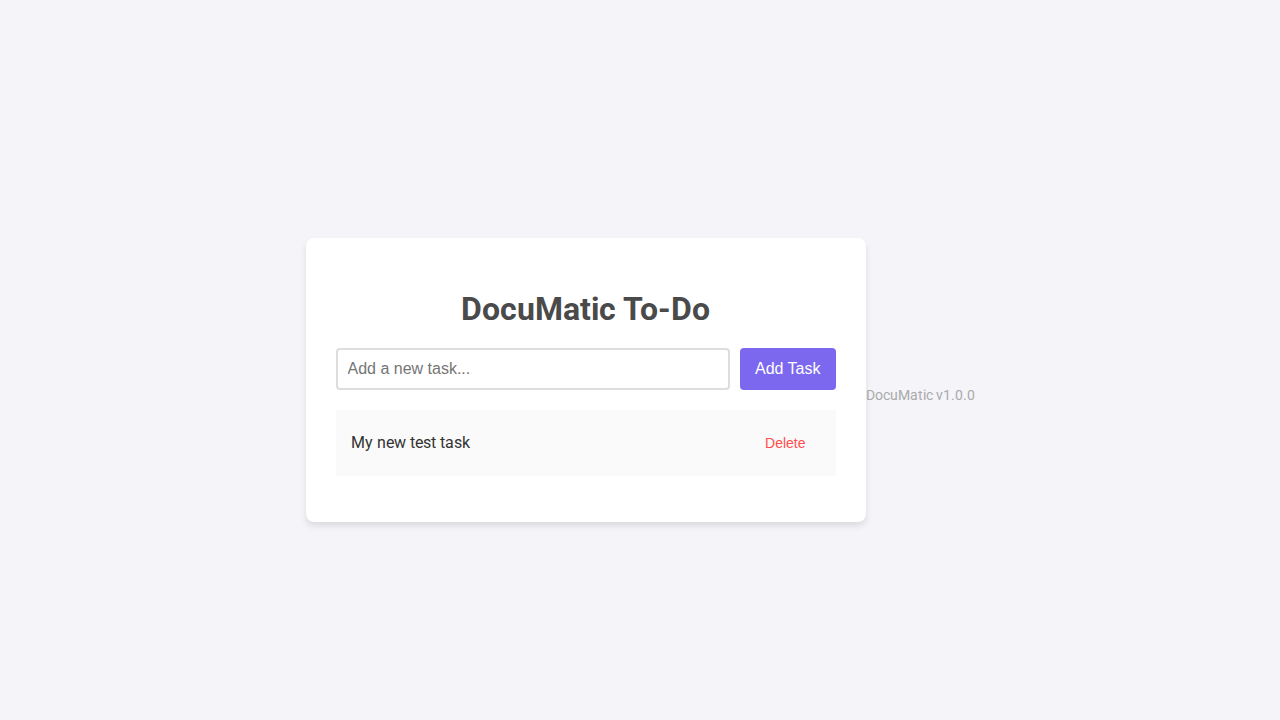
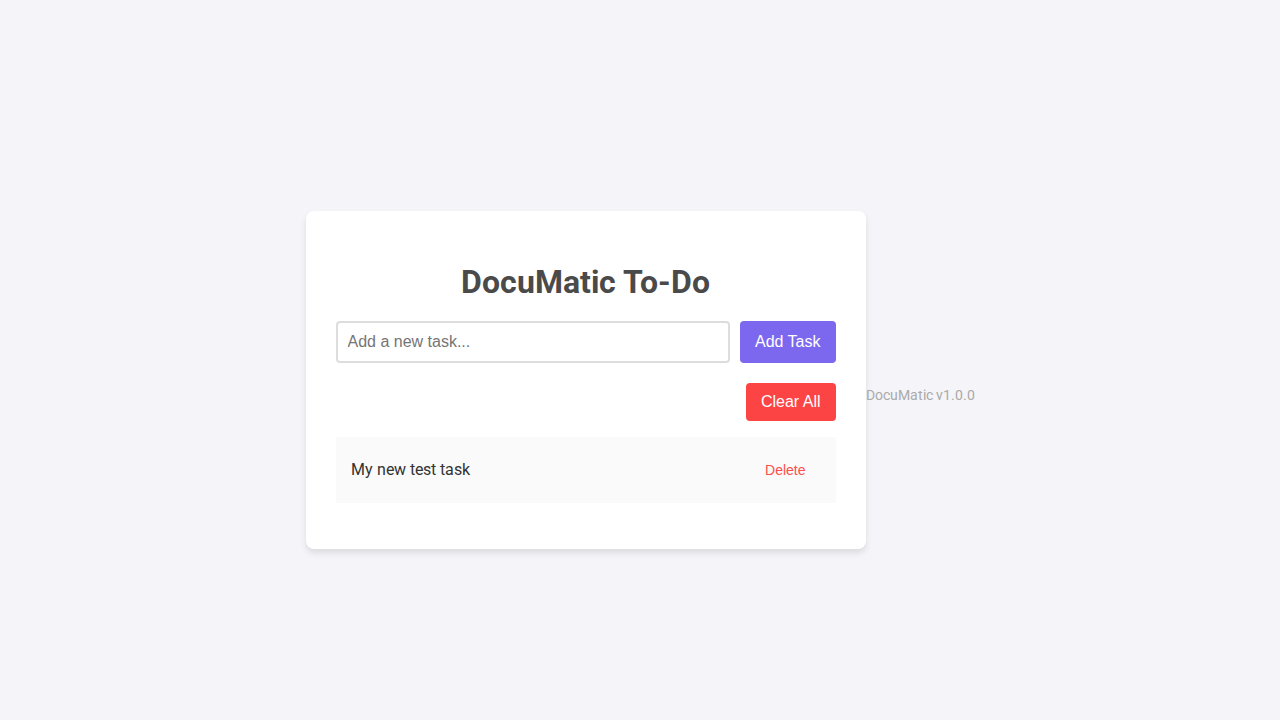
docs: update documentation for new version

Changed region(s): [[0.25, 0.3667, 0.6562, 0.6722], [0.25, 0.7028, 0.6562, 0.7333], [0.2812, 0.6111, 0.375, 0.6722]]

diff --git a/docs/v1.0.0/user-guide.md b/docs/v1.0.0/user-guide.md
@@ -3,9 +3,9 @@
 Welcome to DocuMatic! This guide will help you get started with managing your tasks.
 
 ## Features
-- Adding new tasks
-- Deleting existing tasks
-- Simple and clean user interface
+- Create a new task
+- Delete a task
+- Clear all tasks at once
 
 ## Adding a Task
 
@@ -15,4 +15,12 @@ Here's an example of the app after adding a task:
 
 ![Screenshot of adding a task](./todo-app-task-added.png)
 
-That's it! Your task is now added to the list.
+## Clearing All Tasks
+
+You can remove all tasks from your list at once by clicking the "Clear All" button, located at the top-right of the task list.
+
+Here's what the application looks like with a few tasks before clearing them:
+
+![Screenshot of tasks before clearing](./todo-app-before-clear.png)
+
+That's it!
